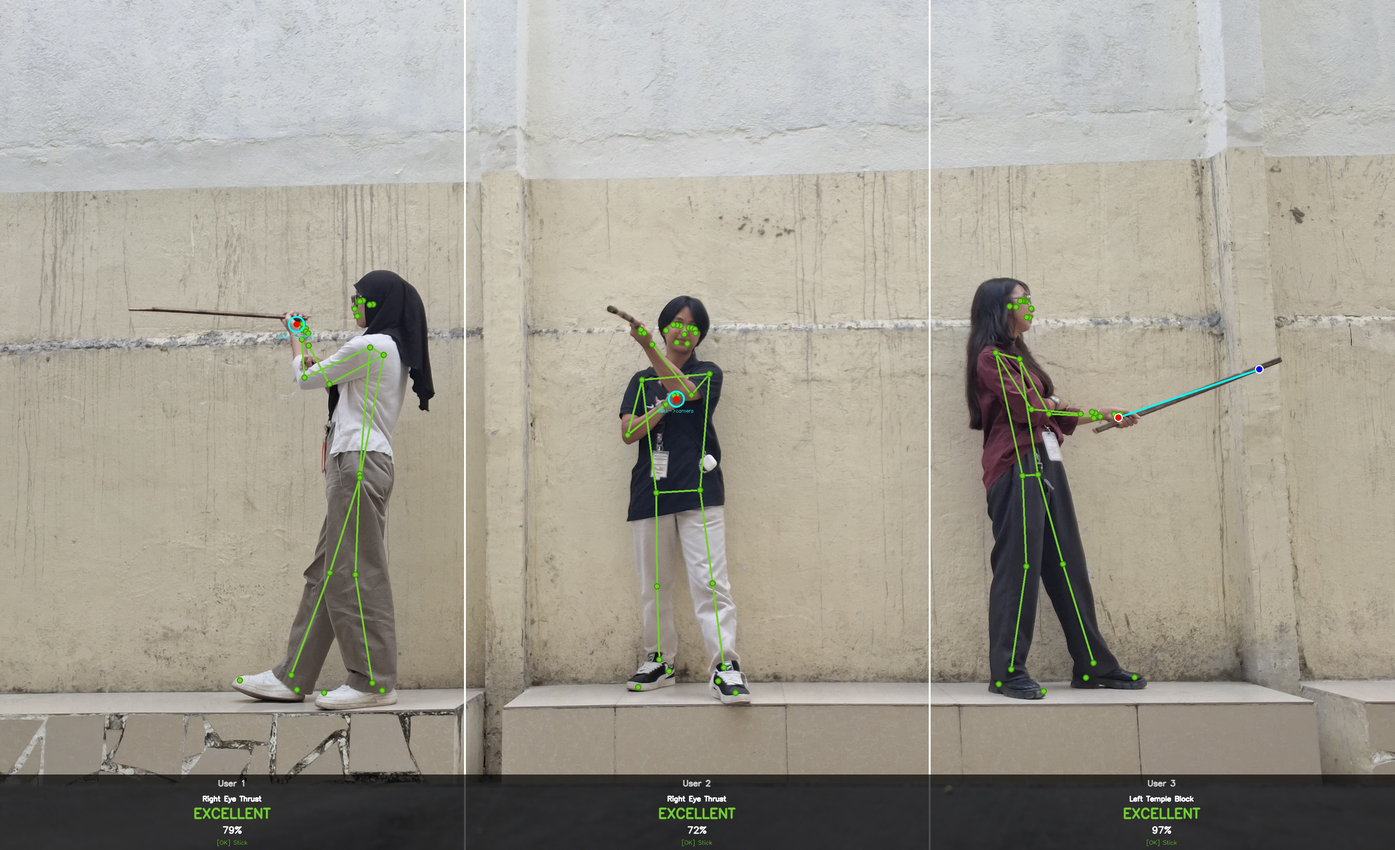
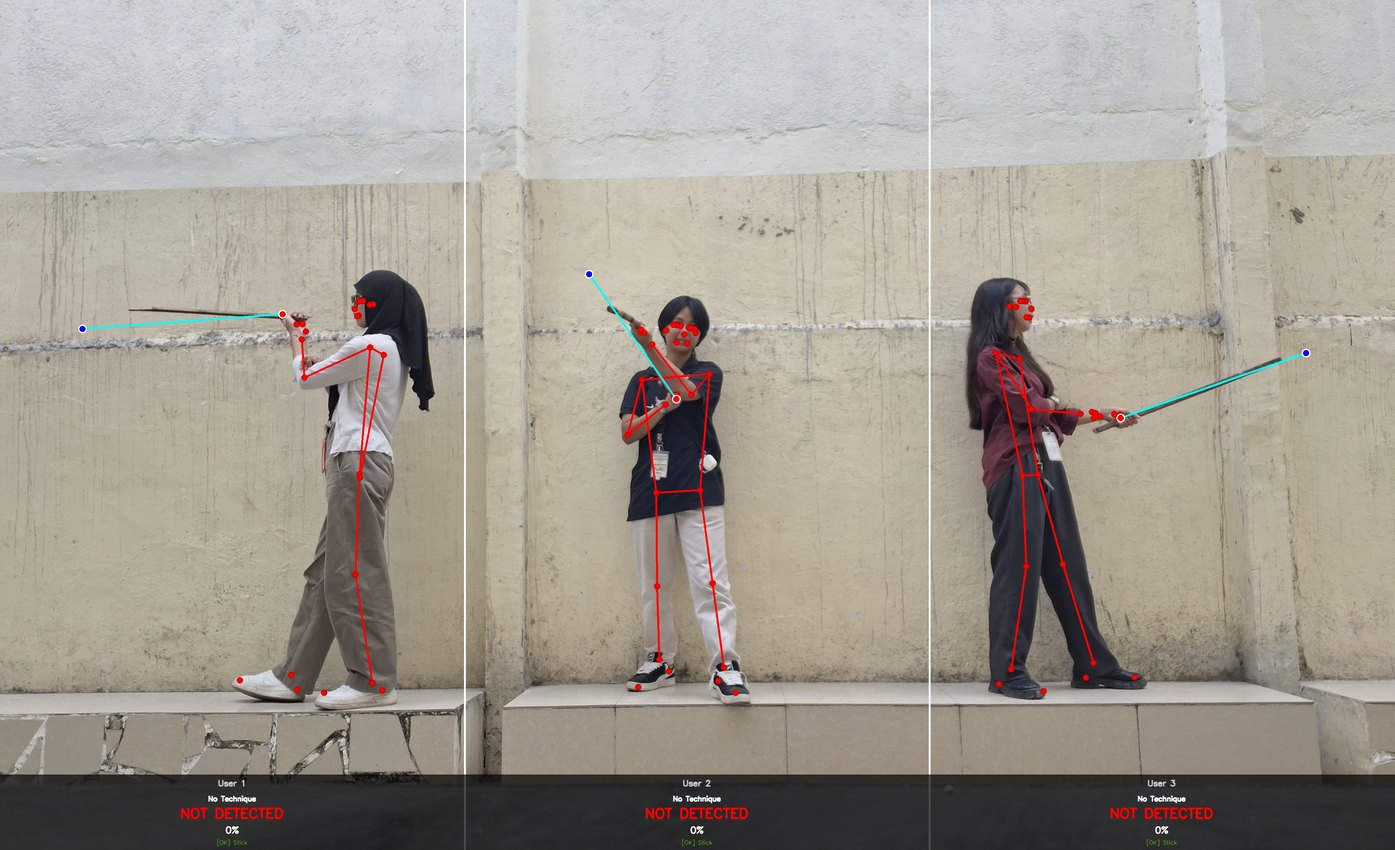
ghfghfgfg

diff --git a/app/computer_vision/pose_analyzer.py b/app/computer_vision/pose_analyzer.py
@@ -576,26 +576,30 @@ class PoseAnalyzer:
                                         dist_l = np.linalg.norm(grip_arr - l_wrist)
                                         
                                         # SWAP FIX: Ensure Grip is closer to wrist than Tip
+                                        # Only apply for front view — in side view, one hand is occluded so
+                                        # MediaPipe wrist distances are unreliable and may cause incorrect swaps.
+                                        # Side views trust YOLO's grip/tip assignment directly.
                                         tip_arr = np.array(tip_pt)
-                                        dist_tip_r = np.linalg.norm(tip_arr - r_wrist)
-                                        dist_tip_l = np.linalg.norm(tip_arr - l_wrist)
+                                        if is_front_view:
+                                            dist_tip_r = np.linalg.norm(tip_arr - r_wrist)
+                                            dist_tip_l = np.linalg.norm(tip_arr - l_wrist)
+                                            min_grip_dist = min(dist_r, dist_l)
+                                            min_tip_dist = min(dist_tip_r, dist_tip_l)
+                                            if min_tip_dist < min_grip_dist:
+                                                if self.debug_stick:
+                                                    print(f"[DEBUG-PROCESS] Swapping Grip/Tip: Tip ({min_tip_dist:.1f}) closer than Grip ({min_grip_dist:.1f})")
+                                                grip_pt, tip_pt = tip_pt, grip_pt
+                                                grip_arr = np.array(grip_pt)
+                                                tip_arr = np.array(tip_pt)
+                                                dist_r = np.linalg.norm(grip_arr - r_wrist)
+                                                dist_l = np.linalg.norm(grip_arr - l_wrist)
                                         
-                                        min_grip_dist = min(dist_r, dist_l)
-                                        min_tip_dist = min(dist_tip_r, dist_tip_l)
-                                        
-                                        if min_tip_dist < min_grip_dist:
-                                            if self.debug_stick:
-                                                print(f"[DEBUG-PROCESS] Swapping Grip/Tip: Tip ({min_tip_dist:.1f}) closer than Grip ({min_grip_dist:.1f})")
-                                            grip_pt, tip_pt = tip_pt, grip_pt
-                                            grip_arr = np.array(grip_pt)
-                                            dist_r = np.linalg.norm(grip_arr - r_wrist)
-                                            dist_l = np.linalg.norm(grip_arr - l_wrist)
-                                        
-                                        # FORCE RIGHT HAND for front view only (for paper consistency)
-                                        # OR use per-pose hand override from config (if provided)
-                                        force_right_hand_front = True  # Set to False to restore auto-detection
+                                        # Camera mirrors the viewer:
+                                        # - Front view: viewer's right hand appears on LEFT of frame → use LEFT pinky
+                                        # - Left view:  viewer faces left, stick hand (right) appears on LEFT of frame → use LEFT pinky
+                                        # Per-pose hand override from config still takes priority.
                                         current_viewpoint = getattr(self.gcn_engine, 'current_viewpoint', None) if hasattr(self, 'gcn_engine') and self.gcn_engine else None
-                                        
+
                                         # Check for per-pose hand override from config
                                         use_right_hand = False
                                         hand_override_applied = False
@@ -606,18 +610,14 @@ class PoseAnalyzer:
                                                 hand_override_applied = True
                                                 if self.debug_stick:
                                                     print(f"[DEBUG-PROCESS] Per-pose hand override: {target_pose} → {pose_config['hand']} hand")
-                                        
-                                        # Fall back to front-view forcing if no config override
-                                        if not hand_override_applied:
-                                            use_right_hand = force_right_hand_front and current_viewpoint == 'front'
-                                        
-                                        # Determine which hand to use: strict override or distance-based
+
+                                        # Default: force RIGHT side for front and left viewpoints
+                                        # MediaPipe landmarks are subject-relative (not camera-relative)
+                                        # Person's RIGHT hand = stick hand in both front and left views
                                         if hand_override_applied:
-                                            # Strict hand override from config
                                             use_right_side = use_right_hand
                                         else:
-                                            # Auto-detection or front-view forcing
-                                            use_right_side = use_right_hand or dist_r < dist_l
+                                            use_right_side = True
                                         
                                         if use_right_side:
                                             wrist_pt_2d = r_wrist
@@ -627,91 +627,83 @@ class PoseAnalyzer:
                                             wrist_pt_2d = l_wrist
                                             elbow_pt_2d = get_abs_point(mp_lm.LEFT_ELBOW)
                                             w_idx, e_idx = mp_lm.LEFT_WRIST, mp_lm.LEFT_ELBOW
-                                            
+
                                         arm_vec_2d = wrist_pt_2d - elbow_pt_2d
-                                        
-                                        # ANCHOR FIX: Use PINKY as grip anchor (closer to actual grip point)
-                                        # YOLO grip can be noisy, especially from front view
-                                        # Pinky is more anatomically accurate for stick grip position
-                                        if use_right_side:
-                                            pinky_pt_2d = get_abs_point(mp_lm.RIGHT_PINKY)
-                                        else:
-                                            pinky_pt_2d = get_abs_point(mp_lm.LEFT_PINKY)
-                                        grip_pt = (int(pinky_pt_2d[0]), int(pinky_pt_2d[1]))
-                                        grip_arr = np.array(grip_pt)
-                                        
-                                        # Get wrist-to-thumb direction (represents hand/grip orientation)
-                                        if use_right_side:
-                                            thumb_pt_2d = get_abs_point(mp_lm.RIGHT_THUMB)
-                                        else:
-                                            thumb_pt_2d = get_abs_point(mp_lm.LEFT_THUMB)
-                                        hand_vec = thumb_pt_2d - wrist_pt_2d
-                                        hand_len = np.linalg.norm(hand_vec)
-                                        
-                                        if self.debug_stick:
-                                            hand_side = "RIGHT" if use_right_side else "LEFT"
-                                            force_msg = " (OVERRIDE)" if hand_override_applied else (" (FORCED)" if use_right_hand else "")
-                                            print(f"[DEBUG-PROCESS] Using {hand_side} hand{force_msg} - Grip anchored to pinky: {grip_pt}, wrist: ({int(wrist_pt_2d[0])},{int(wrist_pt_2d[1])}), thumb: ({int(thumb_pt_2d[0])},{int(thumb_pt_2d[1])})")
-                                        
+
+                                        # NOTE: grip_pt/grip_arr are set per-viewpoint below:
+                                        # - Front view: MediaPipe RIGHT pinky (reliable when facing camera)
+                                        # - Side views: raw YOLO grip (MediaPipe hand L/R unreliable when occluded)
+
                                         if is_front_view:
-                                            stick_px = avg_torso_px * 1.5
-                                            
-                                            # FRONT VIEW DIRECTION: Blend YOLO direction with wrist→thumb direction
-                                            # YOLO direction is unreliable from the front (foreshortening)
-                                            # Wrist→thumb gives actual hand/grip orientation
+                                            # FRONT VIEW ANCHOR: MediaPipe RIGHT pinky (reliable from front)
+                                            pinky_pt_2d = get_abs_point(mp_lm.RIGHT_PINKY)
+                                            grip_pt = (int(pinky_pt_2d[0]), int(pinky_pt_2d[1]))
+                                            grip_arr = np.array(grip_pt)
+                                            if self.debug_stick:
+                                                print(f"[DEBUG-PROCESS] FRONT anchor: RIGHT pinky @ {grip_pt}")
+
+                                            # FRONT VIEW LENGTH: Leg-based (knee→ankle 3D ratio)
+                                            world_lms = pose_results.pose_world_landmarks.landmark
+                                            lk_3d = np.array([world_lms[mp_lm.LEFT_KNEE].x,  world_lms[mp_lm.LEFT_KNEE].y,  world_lms[mp_lm.LEFT_KNEE].z])
+                                            la_3d = np.array([world_lms[mp_lm.LEFT_ANKLE].x, world_lms[mp_lm.LEFT_ANKLE].y, world_lms[mp_lm.LEFT_ANKLE].z])
+                                            rk_3d = np.array([world_lms[mp_lm.RIGHT_KNEE].x,  world_lms[mp_lm.RIGHT_KNEE].y,  world_lms[mp_lm.RIGHT_KNEE].z])
+                                            ra_3d = np.array([world_lms[mp_lm.RIGHT_ANKLE].x, world_lms[mp_lm.RIGHT_ANKLE].y, world_lms[mp_lm.RIGHT_ANKLE].z])
+                                            shin_m = (np.linalg.norm(lk_3d - la_3d) + np.linalg.norm(rk_3d - ra_3d)) / 2.0
+                                            lk_px = get_abs_point(mp_lm.LEFT_KNEE);  la_px = get_abs_point(mp_lm.LEFT_ANKLE)
+                                            rk_px = get_abs_point(mp_lm.RIGHT_KNEE); ra_px = get_abs_point(mp_lm.RIGHT_ANKLE)
+                                            shin_px = (np.linalg.norm(lk_px - la_px) + np.linalg.norm(rk_px - ra_px)) / 2.0
+                                            stick_len_m = 0.71
+                                            stick_px = shin_px * (stick_len_m / (shin_m + 1e-6))
+                                            stick_px = min(stick_px, avg_torso_px * 2.5)
+
+                                            # FRONT VIEW DIRECTION: Pure YOLO (grip→tip)
                                             yolo_vec = tip_arr - grip_arr
                                             y_len = np.linalg.norm(yolo_vec)
-                                            
-                                            if y_len > 1e-6 and hand_len > 1e-6:
-                                                yolo_dir = yolo_vec / y_len
-                                                hand_dir = hand_vec / hand_len
-                                                # Blend: 40% YOLO + 60% wrist→thumb (hand orientation is more reliable in front view)
-                                                blended_dir = 0.4 * yolo_dir + 0.6 * hand_dir
-                                                blended_len = np.linalg.norm(blended_dir)
-                                                if blended_len > 1e-6:
-                                                    direction_unit = blended_dir / blended_len
-                                                else:
-                                                    direction_unit = hand_dir
-                                            elif hand_len > 1e-6:
-                                                direction_unit = hand_vec / hand_len
-                                            else:
-                                                direction_unit = yolo_vec / (y_len + 1e-6)
-                                            
+                                            direction_unit = yolo_vec / y_len if y_len > 1e-6 else np.array([1.0, 0.0])
+
                                             new_tip = grip_arr + (direction_unit * stick_px)
                                             corrected_tip = (int(new_tip[0]), int(new_tip[1]))
                                             stick_endpoints = (grip_pt, corrected_tip)
-                                            
+
                                             if self.debug_stick:
-                                                print(f"[DEBUG-PROCESS] Stick Corrected (FRONT): Px={stick_px:.0f}, blended direction")
+                                                print(f"[DEBUG-PROCESS] Stick Corrected (FRONT): Px={stick_px:.0f}, shin-based length, pure YOLO direction")
                                         else:
+                                            # SIDE VIEW ANCHOR: Raw YOLO grip point
+                                            # MediaPipe left/right is unreliable in side view (one hand occluded)
+                                            # YOLO directly detects the actual grip position on the stick
+                                            grip_arr = np.array(grip_pt)  # already set from YOLO detection above
+                                            if self.debug_stick:
+                                                print(f"[DEBUG-PROCESS] SIDE anchor: raw YOLO grip @ {grip_pt}")
+
+                                            # SIDE VIEW LENGTH: Leg-based (knee→ankle 3D ratio)
                                             world_lms = pose_results.pose_world_landmarks.landmark
-                                            w_3d = np.array([world_lms[w_idx].x, world_lms[w_idx].y, world_lms[w_idx].z])
-                                            e_3d = np.array([world_lms[e_idx].x, world_lms[e_idx].y, world_lms[e_idx].z])
-                                            forearm_m = np.linalg.norm(w_3d - e_3d)
+                                            lk_3d = np.array([world_lms[mp_lm.LEFT_KNEE].x,  world_lms[mp_lm.LEFT_KNEE].y,  world_lms[mp_lm.LEFT_KNEE].z])
+                                            la_3d = np.array([world_lms[mp_lm.LEFT_ANKLE].x, world_lms[mp_lm.LEFT_ANKLE].y, world_lms[mp_lm.LEFT_ANKLE].z])
+                                            rk_3d = np.array([world_lms[mp_lm.RIGHT_KNEE].x,  world_lms[mp_lm.RIGHT_KNEE].y,  world_lms[mp_lm.RIGHT_KNEE].z])
+                                            ra_3d = np.array([world_lms[mp_lm.RIGHT_ANKLE].x, world_lms[mp_lm.RIGHT_ANKLE].y, world_lms[mp_lm.RIGHT_ANKLE].z])
+                                            shin_m = (np.linalg.norm(lk_3d - la_3d) + np.linalg.norm(rk_3d - ra_3d)) / 2.0
+                                            lk_px = get_abs_point(mp_lm.LEFT_KNEE);  la_px = get_abs_point(mp_lm.LEFT_ANKLE)
+                                            rk_px = get_abs_point(mp_lm.RIGHT_KNEE); ra_px = get_abs_point(mp_lm.RIGHT_ANKLE)
+                                            shin_px = (np.linalg.norm(lk_px - la_px) + np.linalg.norm(rk_px - ra_px)) / 2.0
                                             stick_len_m = 0.71
-                                            len_ratio = stick_len_m / (forearm_m + 1e-6)
-                                            forearm_px = np.linalg.norm(wrist_pt_2d - elbow_pt_2d)
-                                            stick_px = forearm_px * len_ratio
-                                            
-                                            # CLAMP FIX
-                                            max_stick_px = avg_torso_px * 2.5
-                                            if stick_px > max_stick_px:
-                                                if self.debug_stick: 
-                                                    print(f"[DEBUG-PROCESS] Clamping excessive stick length: {stick_px:.1f} -> {max_stick_px:.1f}")
-                                                stick_px = max_stick_px
-                                            
-                                            # SIDE VIEW: Use YOLO direction (reliable from side) + corrected length
+                                            stick_px = shin_px * (stick_len_m / (shin_m + 1e-6))
+                                            if stick_px > avg_torso_px * 2.5:
+                                                if self.debug_stick:
+                                                    print(f"[DEBUG-PROCESS] Clamping excessive stick length: {stick_px:.1f} -> {avg_torso_px * 2.5:.1f}")
+                                                stick_px = avg_torso_px * 2.5
+
+                                            # SIDE VIEW DIRECTION: Pure YOLO (reliable from side)
                                             yolo_vec = tip_arr - grip_arr
                                             y_len = np.linalg.norm(yolo_vec)
-                                            
+
                                             if y_len > 1e-6:
                                                 direction_unit = yolo_vec / y_len
                                                 new_tip = grip_arr + (direction_unit * stick_px)
                                                 corrected_tip = (int(new_tip[0]), int(new_tip[1]))
                                                 stick_endpoints = (grip_pt, corrected_tip)
-                                            
+
                                             if self.debug_stick:
-                                                print(f"[DEBUG-PROCESS] Stick Corrected (SIDE): Px={stick_px:.0f}, YOLO direction")
+                                                print(f"[DEBUG-PROCESS] Stick Corrected (SIDE): Px={stick_px:.0f}, shin-based length, YOLO direction")
                                         # End of correction logic (only runs if not foreshortened)
 
                                     except Exception as e:

diff --git a/scripts/batch_test_trio.py b/scripts/batch_test_trio.py
@@ -57,8 +57,8 @@ FILENAME_TO_CLASS = {
 ZONE_VIEWPOINTS = ["left", "front", "right"]
 ZONE_USER_NAMES = ["User 1", "User 2", "User 3"]
 
-# Confidence thresholds (match main app)
-CONFIDENCE_THRESHOLDS = {"front": 0.35, "left": 0.35, "right": 0.35}
+# Confidence thresholds are defined per-viewpoint in app/models/gcn_model_config.json
+# (single source of truth — do not duplicate here)
 
 # ── Skeleton drawing helper (identical to test_image_app.py) ───────────────────
 
@@ -90,8 +90,9 @@ def draw_skeleton(frame, landmarks, color):
             cv2.circle(frame, (x, y), 7, keypoint_border, 2)
 
 
-def get_rating(predicted_class, confidence):
-    """Determine quality rating exactly like test_image_app.py analyze_zones"""
+def get_rating(predicted_class, confidence, viewpoint='front', pose_analyzer=None):
+    """Determine quality rating matching app.py show_feedback logic.
+    Reads per-viewpoint threshold from gcn_model_config.json (single source of truth)."""
     pose_detected = (predicted_class != 'N/A' and
                      predicted_class.lower() != 'no technique detected' and
                      predicted_class not in ('NO_DETECTION', 'ERROR') and
@@ -99,9 +100,14 @@ def get_rating(predicted_class, confidence):
 
     if not pose_detected:
         return "NOT DETECTED", (0, 0, 255)
-    elif confidence >= 0.40:
+
+    # Read threshold from GCN engine config (mirrors app.py show_feedback)
+    gcn_config = pose_analyzer.gcn_engine.config if (pose_analyzer and pose_analyzer.gcn_engine) else {}
+    threshold = gcn_config.get('models', {}).get(viewpoint, {}).get('confidence_threshold', 0.55)
+
+    if confidence >= threshold + 0.15:   # Excellent band
         return "EXCELLENT", (46, 204, 113)   # Green
-    elif confidence >= 0.30:
+    elif confidence >= threshold:         # Good band (minimum)
         return "GOOD", (0, 255, 191)         # Lime
     else:
         return "FAIR", (18, 153, 243)        # Orange
@@ -185,8 +191,8 @@ def analyze_single_image(image_path, pose_analyzer, pose_stem=None, stick_config
                 else:
                     adjusted_stick = None
 
-                # Determine quality rating (same logic as test_image_app.py)
-                rating, rating_color = get_rating(predicted_class, confidence)
+                # Determine quality rating (same logic as app.py show_feedback)
+                rating, rating_color = get_rating(predicted_class, confidence, viewpoint=viewpoint, pose_analyzer=pose_analyzer)
 
                 # Convert technical name to display name
                 pose_detected = (predicted_class != 'N/A' and
@@ -277,8 +283,10 @@ def visualize_and_save(composite_frame, zone_results, user_names, viewpoints, sa
             stick_foreshortened = zone_data.get('stick_foreshortened', False)
             skip_drawing = False
             
-            # Apply stick visualization config (with viewpoint override support)
-            if stick_config and predicted_class in stick_config:
+            # Apply stick visualization config — FRONT VIEW ONLY
+            # Config was designed for front-view correct classifications (e.g. thrusts pointing at camera)
+            # Left/right views always use 'auto' (foreshortening flag decides line vs circle)
+            if stick_config and predicted_class in stick_config and viewpoint == 'front':
                 pose_config = stick_config[predicted_class]
                 
                 # Check for viewpoint-specific override first
@@ -394,27 +402,24 @@ def visualize_and_save(composite_frame, zone_results, user_names, viewpoints, sa
     # Display (fit to screen without stretching)
     if show:
         try:
-            # Screen dimensions (safe defaults for most displays)
-            screen_width = 1600
-            screen_height = 900
-            
+            # Leave headroom for taskbar and window chrome; keep feedback panel visible
+            screen_width = 1280
+            screen_height = 720
+
             img_height, img_width = vis_frame.shape[:2]
 
-            # Calculate scale factors for both dimensions
-            width_scale = screen_width / img_width
-            height_scale = screen_height / img_height
-            
-            # Use the smaller scale to ensure image fits within screen bounds (preserves aspect ratio)
-            scale = min(width_scale, height_scale)
-            
+            # Scale to fit within screen bounds (preserves aspect ratio)
+            scale = min(screen_width / img_width, screen_height / img_height)
+
             new_width = int(img_width * scale)
             new_height = int(img_height * scale)
 
-            # Use appropriate interpolation: INTER_AREA for downscaling, INTER_CUBIC for upscaling
             interp = cv2.INTER_AREA if scale < 1.0 else cv2.INTER_CUBIC
             display_frame = cv2.resize(vis_frame, (new_width, new_height), interpolation=interp)
 
             win_name = window_title or "Multi-User Recognition Test (Zoning Mode)"
+            cv2.namedWindow(win_name, cv2.WINDOW_NORMAL)
+            cv2.resizeWindow(win_name, new_width, new_height)
             cv2.imshow(win_name, display_frame)
             print(f"\nDisplay size: {new_width}x{new_height} (original: {img_width}x{img_height}, scale: {scale:.2f}x)")
             print("\n" + "=" * 60)

diff --git a/app/app.py b/app/app.py
@@ -60,12 +60,8 @@ FONT_MAIN = ("Inter", 24)
 FONT_HEADER = ("Inter", 48, "bold")
 FONT_BOLD = ("Inter", 24, "bold")
 
-# Viewpoint-specific confidence thresholds
-CONFIDENCE_THRESHOLDS = {
-    'front': 0.35,  
-    'left': 0.35,   
-    'right': 0.35  
-}
+# Confidence thresholds are defined per-viewpoint in app/models/gcn_model_config.json
+# (single source of truth — do not duplicate here)
 
 class KioskState:
     SPLASH = "splash"
@@ -552,7 +548,7 @@ class KioskApp(ctk.CTk):
             stick_detected = zone_result.get('stick_detected', False)
             
             # Pure recognition mode - confidence-based scoring only
-            # Get viewpoint-specific confidence threshold
+            # Get viewpoint-specific confidence threshold from gcn_model_config.json (single source of truth)
             viewpoint_ui = config['viewpoint'].get()
             viewpoint_mapping = {
                 "Front": "front",
@@ -560,11 +556,13 @@ class KioskApp(ctk.CTk):
                 "Left Side": "left"
             }
             viewpoint = viewpoint_mapping.get(viewpoint_ui, "front").lower()
-            confidence_threshold = CONFIDENCE_THRESHOLDS.get(viewpoint, 0.35)
-            
-            # Determine quality based purely on confidence (no target comparison)
-            high_confidence = (confidence >= 0.60)
-            good_confidence = (confidence >= 0.40)
+            gcn_config = self.pose_analyzer.gcn_engine.config if (self.pose_analyzer and self.pose_analyzer.gcn_engine) else {}
+            threshold = gcn_config.get('models', {}).get(viewpoint, {}).get('confidence_threshold', 0.55)
+
+            # Scoring bands relative to per-viewpoint threshold
+            # gcn_inference.py already filters below threshold, so confidence > 0 means >= threshold
+            high_confidence = (confidence >= threshold + 0.15)  # Excellent band
+            good_confidence  = (confidence >= threshold)         # Good band (minimum)
             pose_detected = (predicted_class != 'N/A' and predicted_class.lower() != 'no technique detected' and confidence > 0)
             
             # Color coding based on confidence

diff --git a/app/computer_vision/gcn_inference.py b/app/computer_vision/gcn_inference.py
@@ -137,6 +137,11 @@ class GCNInferenceEngine:
         confidence = probabilities[pred_idx].item()
         predicted_class = CLASS_NAMES[pred_idx]
 
+        # Apply per-viewpoint confidence threshold from config (single source of truth)
+        threshold = self.config['models'].get(self.current_viewpoint, {}).get('confidence_threshold', 0.50)
+        if confidence < threshold:
+            return "No Technique Detected", 0.0, probabilities.cpu().numpy()
+
         return predicted_class, confidence, probabilities.cpu().numpy()
 
 
